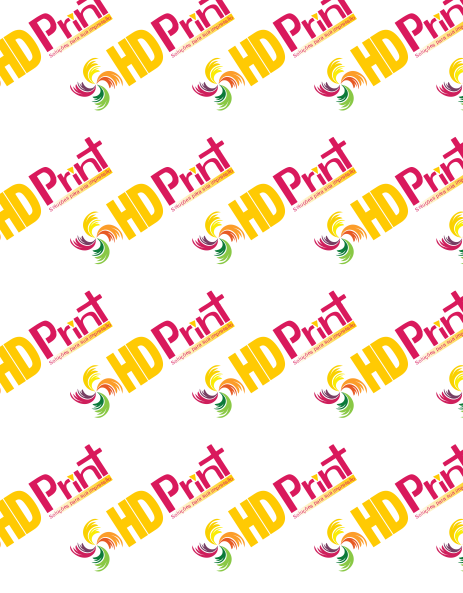
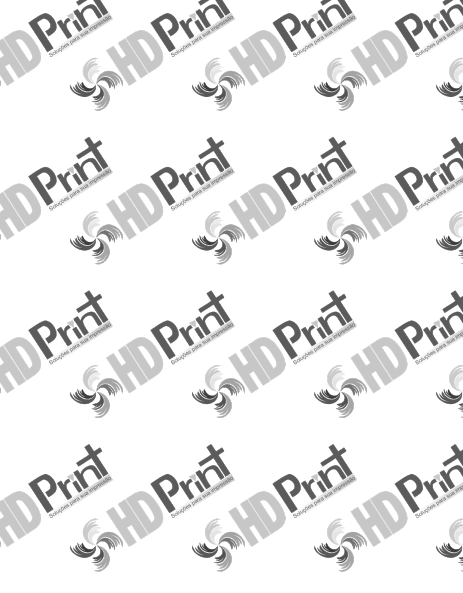
Arrumado visualização de documento Arrumado copyright Bloqueado ctrl c e clique com direito

diff --git a/public/js/application.js b/public/js/application.js
@@ -10,8 +10,10 @@ initialize = function () {
     appConfig.initDataTable();
     appConfig.initCustomMultiSelect();
     appConfig.initCustomSelect();
+    appConfig.bloquearInspecionar();
+    appConfig.bloquearPrint();
   });
-  
+
 }
 
 appConfig.ajaxDynamicSimpleCombo = function(controller, metodo, areaLoadSelect, limparComboMetodo, id, idSelected) {
@@ -168,4 +170,20 @@ appConfig.initCustomMultiSelect = function () {
       }
     });
   });
+}
+
+appConfig.bloquearInspecionar = function () {
+
+}
+
+appConfig.bloquearPrint = function () {
+  function limpeza(){
+    window.clipboardData.setData('text','')
+  }
+  function limpeza2(){
+    if(clipboardData){
+      clipboardData.clearData();
+    }
+  }
+  setInterval("limpeza2();", 1000);
 }

diff --git a/application/util/Util.php b/application/util/Util.php
@@ -75,16 +75,14 @@
             $dir = dirname(__FILE__);
             $dir = str_replace("application\util","", $dir);
             $dir = str_replace("application/util","", $dir);
-            $documento = $dir.$documento;
             $dir .= "documentos/";
+			$documento = $dir.$documento;
 
             $nomeArquivo = $_SESSION["usuario"]->cd_usuario . "img.jpg";
-
-            // exec("convert -alpha off input.pdf -resize 500x700! -background white -flatten -quality 90 output.jpg");
             $comando = "convert -alpha off -density 288 ". $documento ."[". $pagina ."] -resize 1000x1000 -background white -flatten -quality 90 ". $dir . $nomeArquivo;
             exec($comando);
 
-            $comando = "composite -dissolve 90% -gravity center ". $dir ."copyright.png ". $dir . $nomeArquivo ." ". $dir . $nomeArquivo;
+            $comando = "composite -dissolve 30% -gravity center -resize 1000x1000 ". $dir ."copyright.png ". $dir . $nomeArquivo ." ". $dir . $nomeArquivo;
             exec($comando);
 
 
@@ -98,21 +96,18 @@
 
           public static function sugerirIntervalosDocumento($nomeArquivo) {
 
-            // $arquivoModel = new ArquivoModel();
-            // $locationFile = $arquivoModel->buscarCaminhoArquivo(intval($cdArquivo));
-            // $nomeDocumento = $locationFile->CAMINHO;
             $numPaginas = Util::numeroPaginas($nomeArquivo);
             if ($numPaginas === 0) {
                 return null;
             }
             $intervaloColorido = null;
-    
+
             $intervalos = Array();
             $intervalos["intervaloPaginasaDe"] = Array();
             $intervalos["intervaloPaginasaAte"] = Array();
             $intervalos["intervaloPaginasTipo"] = Array();
             for ($i=0; $i < $numPaginas; $i++) {
-                
+
                 $colorida = Util::verificarSePaginaEColorida($nomeArquivo, $i);
                 if ($intervaloColorido === null || boolval($colorida) !== boolval($intervaloColorido)) {
                     if ($intervaloColorido != null && $i > 0) {
@@ -127,55 +122,44 @@
                         $intervaloColorido = false;
                     }
                 }
-    
+
             }
-    
+
             $intervalos["intervaloPaginasaAte"][] = $i;
             return $intervalos;
-    
-        }
-    
-        public static function numeroPaginas($nomeDocumento) {
-    
-            $dir = dirname(__FILE__); 
-            // $dir = str_replace("application\controller","", $dir);
-            // $dir = str_replace("application/controller","", $dir);
-            // $dir .= "/documentos/";
 
-            // $dir = dirname(__FILE__);
+        }
+
+        public static function numeroPaginas($nomeDocumento) {
+
+            $dir = dirname(__FILE__);
+
             $dir = str_replace("application\util","", $dir);
             $dir = str_replace("application/util","", $dir);
             $dir .= "documentos/";
             $documento = $dir.$nomeDocumento;
-    
+
             $comando = "identify ". $documento;
             $identify = exec($comando , $output);
             return count($output);
-    
-        }
-    
-        public static function verificarSePaginaEColorida($nomeDocumento, $pagina) {
-    
-            // $dir = dirname(__FILE__); 
-            // $dir = str_replace("application\controller","", $dir);
-            // $dir = str_replace("application/controller","", $dir);
-            // $dir .= "/documentos/";
 
-            $dir = dirname(__FILE__); 
+        }
+
+        public static function verificarSePaginaEColorida($nomeDocumento, $pagina) {
+
+            $dir = dirname(__FILE__);
             $dir = str_replace("application\controller","", $dir);
             $dir = str_replace("application/controller","", $dir);
-            // $dir .= "/documentos/";
 
-            // $dir = dirname(__FILE__);
             $dir = str_replace("application\util","", $dir);
             $dir = str_replace("application/util","", $dir);
             $dir .= "documentos/";
             $documento = $dir.$nomeDocumento;
-    
+
             $comando = "convert ". $documento ."[". $pagina ."] -colorspace HSL -channel G -separate -format %[fx:mean] info:";
             $convert = exec($comando , $output);
             return floatval($output[0]) > 0;
-    
+
         }
 
   }

diff --git a/application/view/_templates/header.php b/application/view/_templates/header.php
@@ -1,5 +1,5 @@
 <!DOCTYPE html>
-<html lang="en">
+<html lang="en" oncontextmenu="return false">
 <head>
     <meta charset="utf-8">
     <title>HD Print</title>
@@ -28,6 +28,34 @@
 	<link href="<?php echo URL; ?>css/404.css" rel="stylesheet">
   <link href="<?php echo URL; ?>css/style.css" rel="stylesheet">
   <link href="<?php echo URL; ?>css/pastas.css" rel="stylesheet">
+
+  <script>
+    //--DESABILITA PRINT
+    function printsreen(){
+
+    }
+    setInterval("printsreen();", 100);
+
+    //-- DESABILITA CTRL C
+    window.onkeydown = function(){
+        var cntr = window.event.ctrlKey, tecla = window.event.keyCode;
+
+        if(cntr == true && tecla == 65){ //cntrol A
+            //alert("apertou control a");
+            event.keyCode = 0;
+            return false;
+        }
+        else if(cntr == true && tecla == 67){ //cntrol C
+            event.keyCode = 0;
+            return false;
+        }
+        else if(cntr == true && tecla == 86){ //cntrol V
+            event.keyCode = 0;
+            return false;
+        }
+    }
+
+  </script>
 </head>
 <body>
   <div class="loading-area" id="loading-area" style="display:none;">
